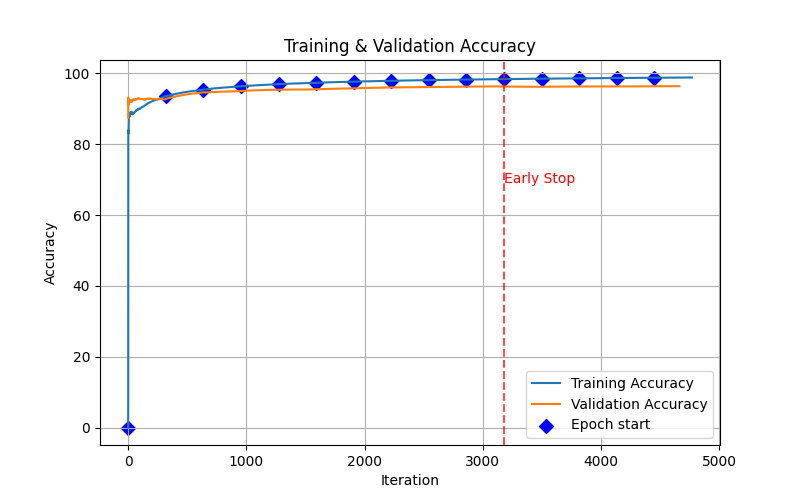
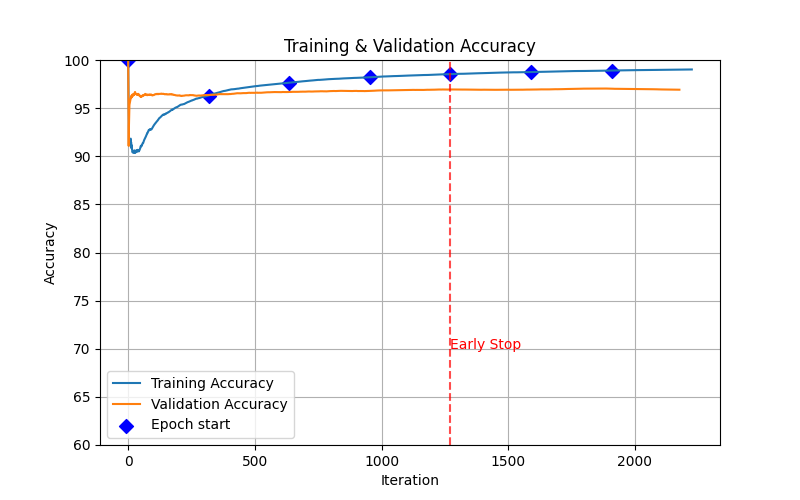
added parralel dataset conversion and tried new stuff but test acc is still 91.75

diff --git a/src/nn.py b/src/nn.py
@@ -57,7 +57,7 @@ class ConvNet(torch.nn.Module):
 
         self.fullyConnected = nn.Sequential(
             #nn.Linear(4000, 120),  # out_channels*x_cur*y_cur
-            nn.Linear(16000, 120),
+            nn.Linear(76800, 120),
             act_fn,
             nn.Linear(120, 84),
             act_fn,
@@ -81,6 +81,63 @@ class ConvNet(torch.nn.Module):
         return x
 
 
+class BiCorrelationConvNet(torch.nn.Module):
+    """
+    change this later
+    """
+    def __init__(self):
+        super().__init__()
+        act_fn = nn.ReLU()
+        pool = nn.MaxPool2d(kernel_size=(1,2), stride=(1,2))#not symmetric because our input dimensions are (13,400) worst case
+        time_kernel_size=(1,2)
+        self.timeCorrelationLayers = nn.Sequential(
+            nn.Conv2d(in_channels=1, out_channels=16, kernel_size=time_kernel_size), act_fn,
+            pool,
+            nn.Conv2d(in_channels=16, out_channels=32, kernel_size=time_kernel_size), act_fn,
+            #ResidualBlock(32, 32, time_kernel_size, act_fn=act_fn),
+            pool,
+            nn.Conv2d(in_channels=32, out_channels=16, kernel_size=time_kernel_size), act_fn,
+            pool,
+        )
+        self.timeToVector = nn.Linear(65600, 1000)
+
+        coefficient_kernel_size=(6,1)
+        self.coefficientCorrelationLayers = nn.Sequential(
+            nn.Conv2d(in_channels=1, out_channels=16, kernel_size=coefficient_kernel_size), act_fn,
+            pool,
+            nn.Conv2d(in_channels=16, out_channels=32, kernel_size=coefficient_kernel_size), act_fn,
+            #ResidualBlock(32, 32, coefficient_kernel_size, act_fn=act_fn),
+            pool,
+            nn.Conv2d(in_channels=32, out_channels=16, kernel_size=coefficient_kernel_size), act_fn,
+            pool,
+        )
+        self.coeffiecientToVector = nn.Linear(16480, 1000)
+
+        self.correlationNetwork = nn.Sequential(
+            #nn.Linear(4000, 120),  # out_channels*x_cur*y_cur
+            nn.Linear(2000, 240),
+            act_fn,
+            nn.Linear(240, 1),
+            nn.Sigmoid(),#for probability as output
+        )
+
+    def forward(self, x):
+        time_x = self.timeCorrelationLayers(x)
+        # flatten the convolution results
+        time_x = time_x.view(time_x.size(0), -1)  #out_channels*x_cur*y_cur
+        vec_time = self.timeToVector(time_x)
+
+        freq_x = self.coefficientCorrelationLayers(x)
+        freq_x = freq_x.view(time_x.size(0), -1)
+        vec_freq = self.coeffiecientToVector(freq_x)
+
+        x= torch.cat((vec_time, vec_freq), dim=1)
+
+        x = self.correlationNetwork(x)
+
+        return x
+
+
 #------------------------------utility functions----------------------------------------
 def train(network, train_loader, val_loader, device, checkpoint_path, epochs=200, lr=1e-4, regularization=1e-4):
     """
@@ -98,7 +155,7 @@ def train(network, train_loader, val_loader, device, checkpoint_path, epochs=200
 
     best_model_valid_loss = np.Inf
     num_epochs_without_val_loss_reduction = 0
-    early_stopping_window = 5
+    early_stopping_window = 3
 
     running_train_loss = 0
     running_val_loss = 0
@@ -229,19 +286,26 @@ if __name__ == "__main__":
 
     device = torch.device("cuda" if torch.cuda.is_available() else "cpu")
     print("using device: " + str(device))
-    model = ConvNet().to(device)
+    #model = ConvNet().to(device)
+    model = BiCorrelationConvNet().to(device)
+
+    #---------------------------------train---------------------------
+    #comment this+plot out if you just want to test
     checkpoint_path = os.getcwd() + r"\..\checkpoints"
     train_loss_list, train_acc_list, val_loss_list, val_acc_list, early_stopping_iter, epoch_nr = (
         train(model, train_loader, val_loader, device, checkpoint_path, epochs=200, lr=1e-4))  #training
 
+    #---------------------------------plot-----------------------------
     plot_path = os.getcwd() + r"\..\plots"
     plotting.plot_loss(train_loss_list, val_loss_list, early_stopping_iter, plot_path, epoch_nr)
     plotting.plot_acc(train_acc_list, val_acc_list, early_stopping_iter, plot_path, epoch_nr)
 
+    #------------------------------cleanup-----------------------------
     del train_loader, val_loader  #free up memory
     torch.cuda.empty_cache()
     gc.collect()
 
-    model = ConvNet().to(device)  # init the model
+    #-----------------------------test-------------------------------
+    #model = ConvNet().to(device)  # init the model
     model.load_state_dict(torch.load(checkpoint_path + r"\model.pt"))
     test_nn(model, test_loader, device)

diff --git a/src/data_transform_parquet.py b/src/data_transform_parquet.py
@@ -1,3 +1,5 @@
+import gc
+
 import pandas as pd
 import os
 import librosa
@@ -8,6 +10,7 @@ from tqdm import tqdm
 import numpy as np
 from scipy.fftpack import dct
 import warnings
+from pandarallel import pandarallel
 
 #pyarrow needs to be installed
 
@@ -33,6 +36,9 @@ def audio_to_cqcc(audio_dict, n_coeffiecients=20, hop_length=128, fmin=20, n_bin
     Convert audio to CQCC spectrogram.
     Returns: CQCC array [n_coeffiecients x time]
     """
+    import io, warnings, librosa
+    import numpy as np
+    import soundfile as sf
     audio_bytes = io.BytesIO(audio_dict["bytes"])
     y, sr = sf.read(audio_bytes, dtype='float32')
     # If stereo, take mean to make it mono
@@ -41,7 +47,8 @@ def audio_to_cqcc(audio_dict, n_coeffiecients=20, hop_length=128, fmin=20, n_bin
 
     warnings.filterwarnings("ignore", message="n_fft=.* is too large")
     C = np.abs(librosa.cqt(y, sr=sr, hop_length=hop_length, fmin=fmin, n_bins=n_bins, bins_per_octave=bins_per_octave))
-    log_C = np.log(C + 1e-8)
+    #return C   # if we want to visualize it
+    log_C = np.log(C + 1e-8)        #for numerical stuff so that all the values are not too far apart (distance is kept)
     cqcc = dct(log_C, type=2, axis=0, norm='ortho')
     cqcc = cqcc[:n_coeffiecients, :]  #only keep first n coefficients
     return cqcc
@@ -74,10 +81,14 @@ def convert_dataset(conversion_function):
     ret_train_label = df_train["key"]
     ret_val_label = df_val["key"]
 
-    tqdm.pandas()
-    ret_test_mfcc = df_test['audio'].progress_apply(conversion_function)
-    ret_train_mfcc = df_train['audio'].progress_apply(conversion_function)
-    ret_val_mfcc = df_val['audio'].progress_apply(conversion_function)
+    #tqdm.pandas()
+    pandarallel.initialize(progress_bar=True, nb_workers=8)
+    ret_test_mfcc = df_test['audio'].parallel_apply(conversion_function)
+    gc.collect()
+    ret_train_mfcc = df_train['audio'].parallel_apply(conversion_function)
+    gc.collect()
+    ret_val_mfcc = df_val['audio'].parallel_apply(conversion_function)
+    gc.collect()
 
     return  ret_test_label, ret_train_label, ret_val_label, ret_test_mfcc, ret_train_mfcc, ret_val_mfcc
 
@@ -143,10 +154,10 @@ def do_some_tests():
     tqdm.pandas()
     #df['mfcc'] = df['audio'].progress_apply(audio_to_cqcc)
     #visualize_spectrogram(df["mfcc"].iloc[0])
-    visualize_spectrogram(audio_to_cqcc(df['audio'].iloc[0]))
+    visualize_spectrogram(audio_to_cqcc(df['audio'].iloc[0], n_coeffiecients=20))
 
 
 if __name__ == "__main__":
     #do_some_tests()
-    path = os.getcwd() + r"\..\data\processed\CQCC"
+    path = os.getcwd() + r"\..\data\processed\CQCC2"
     check_processed_datasets(path, audio_to_cqcc)
